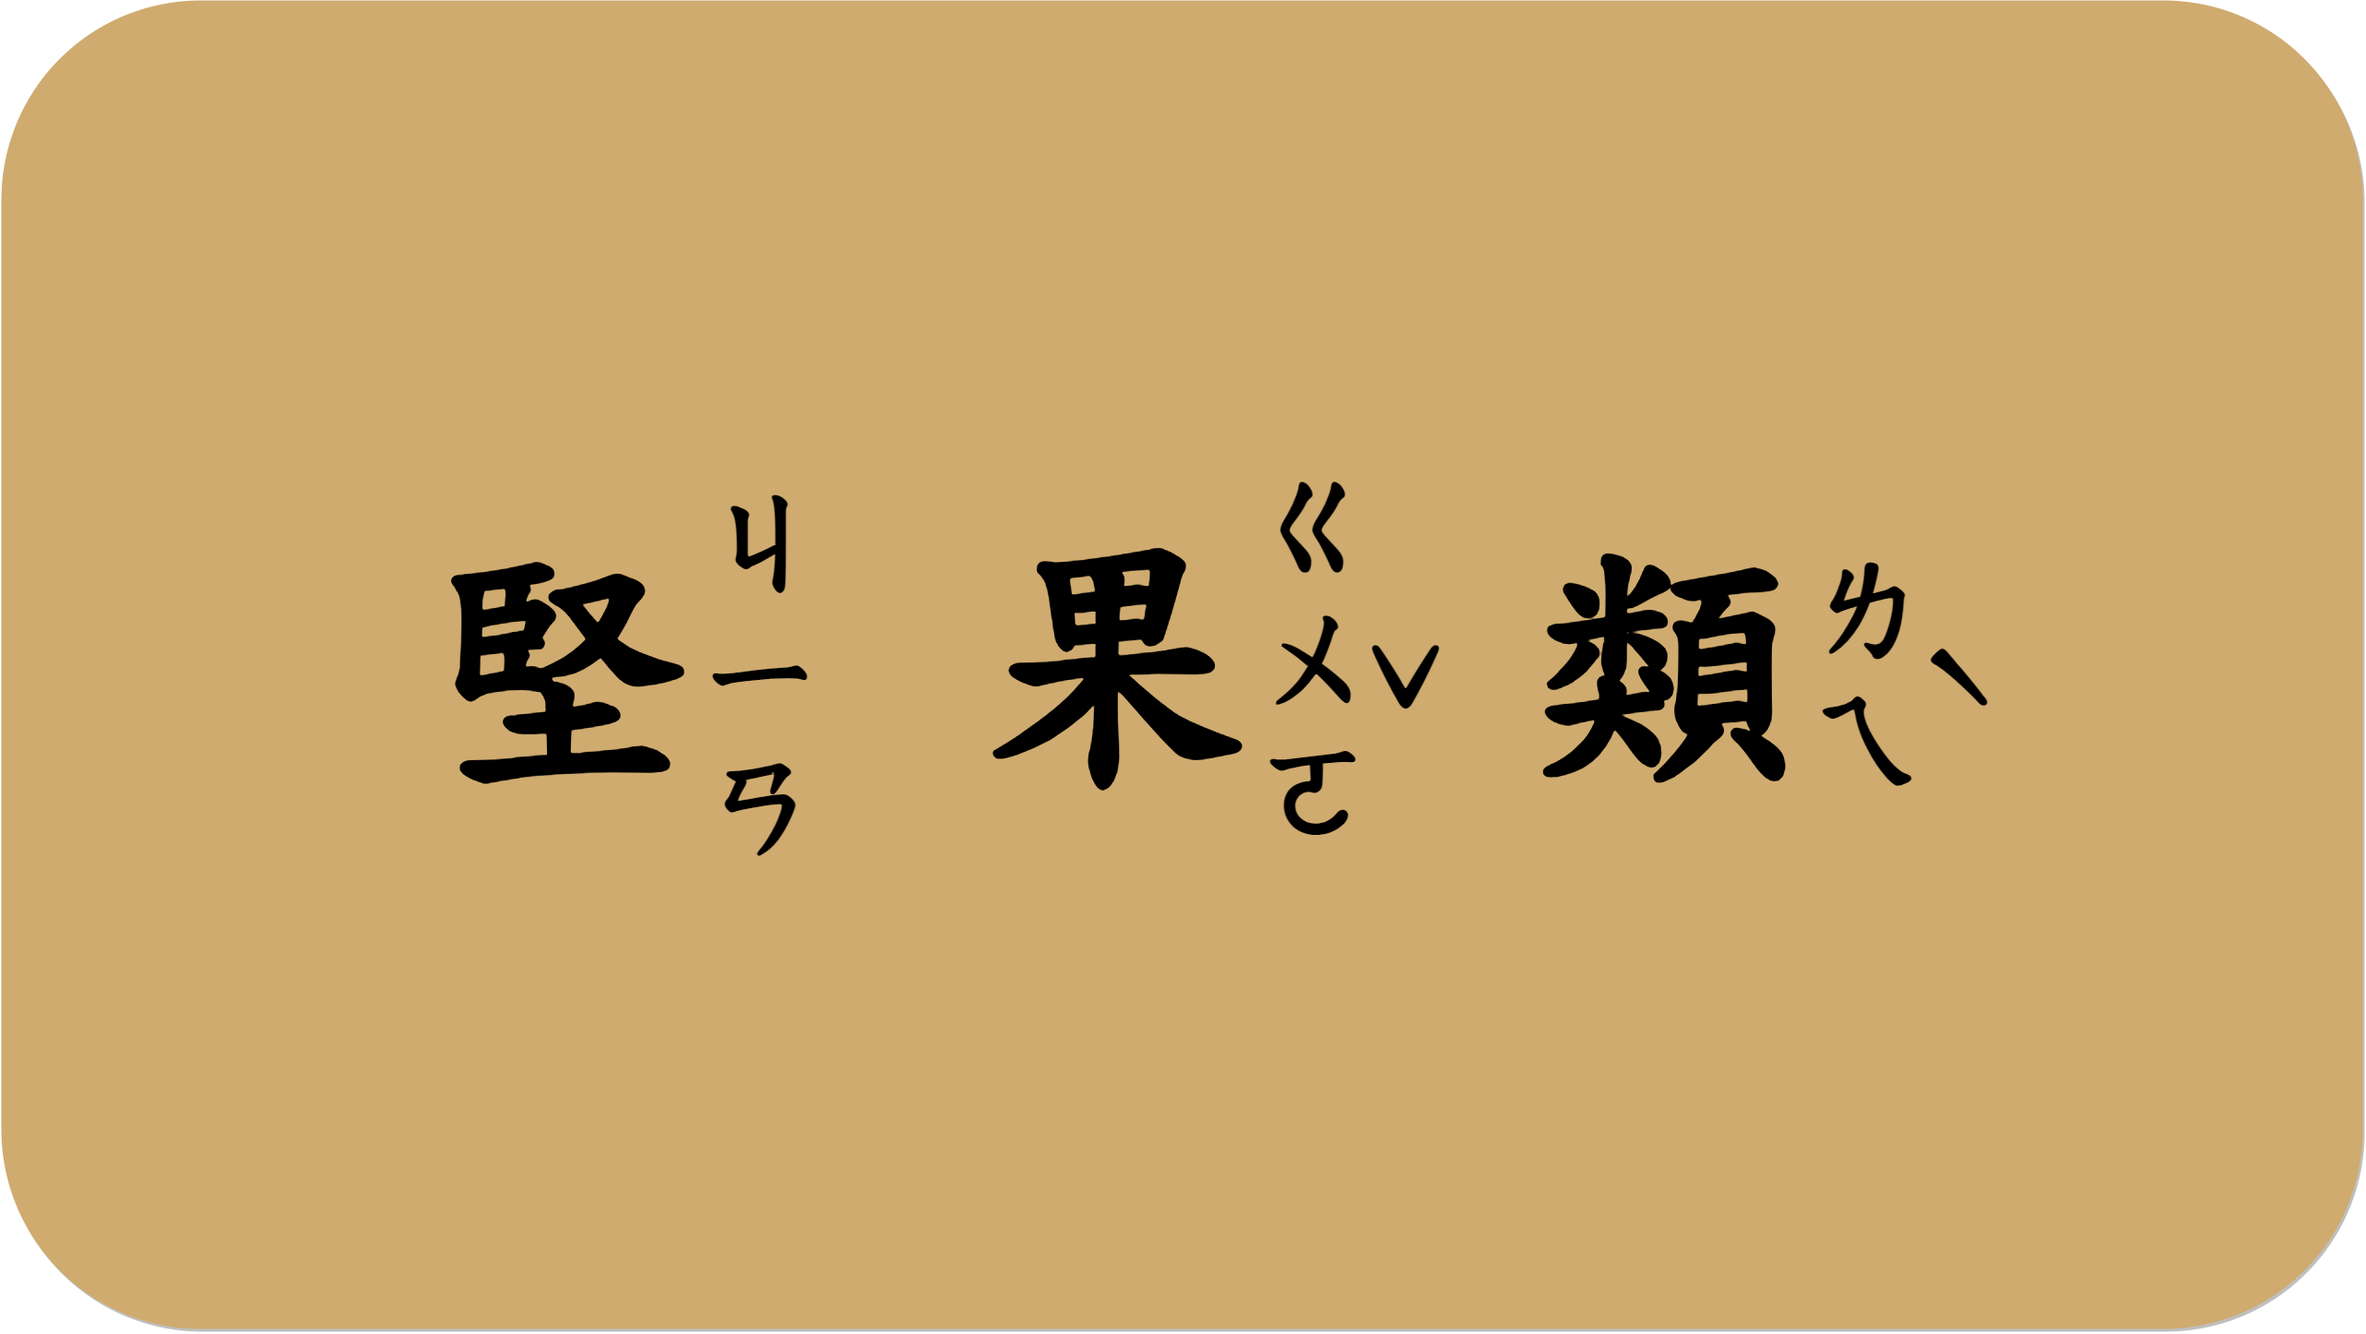
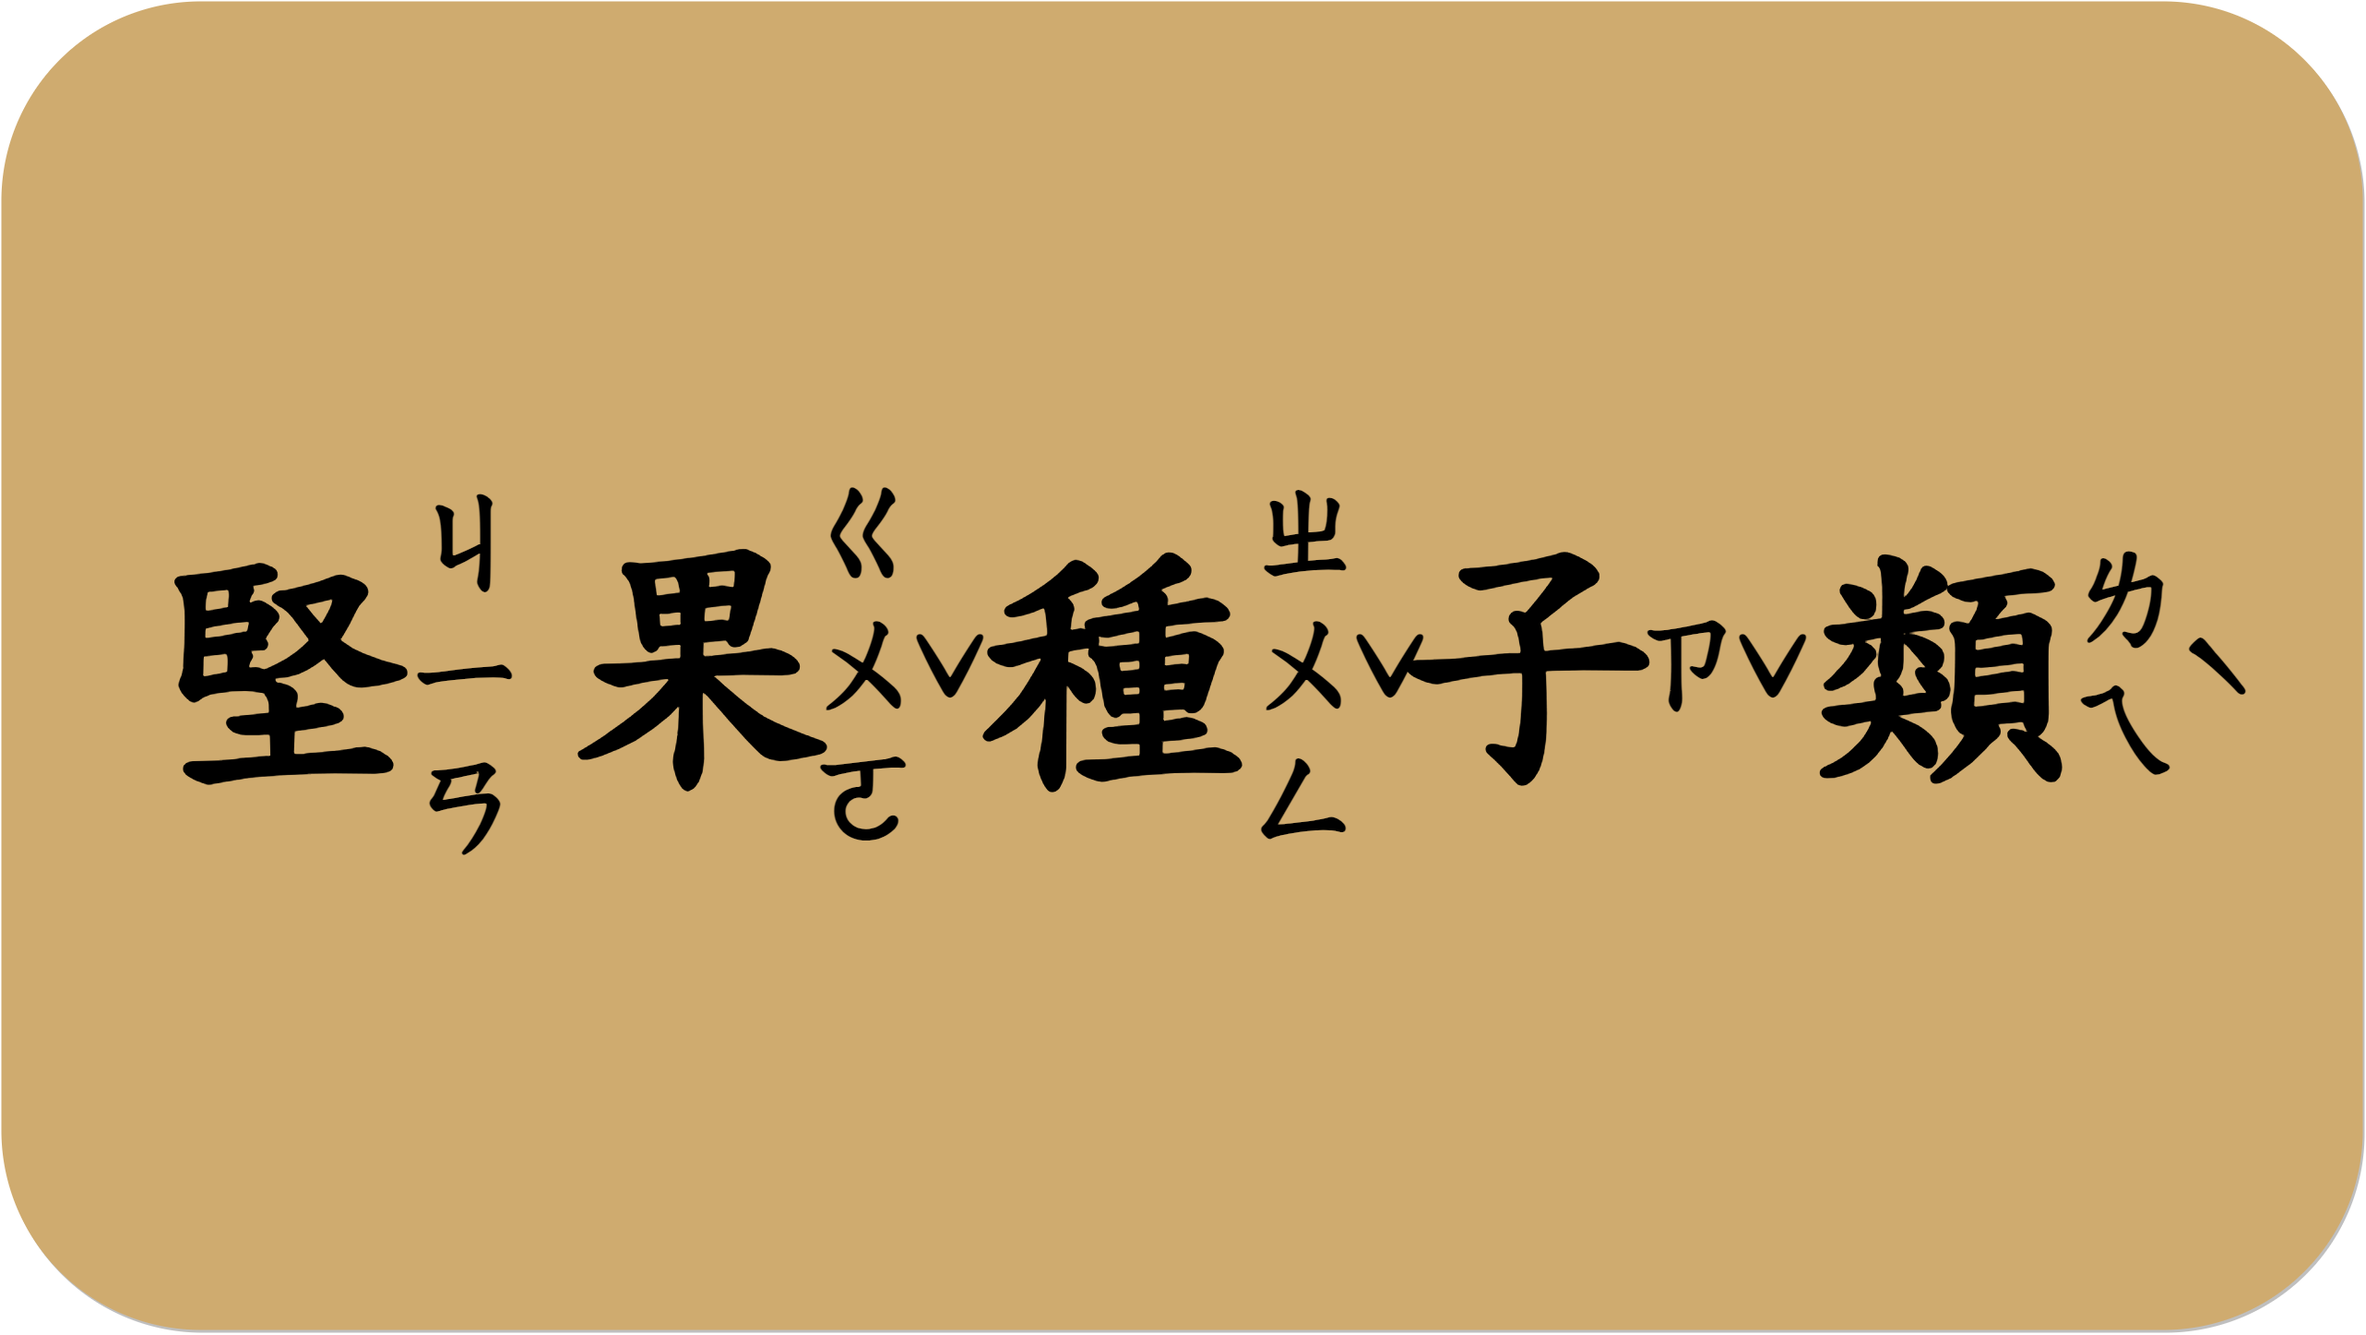
20240423 update

diff --git a/E-Plate/index.html b/E-Plate/index.html
@@ -1,4 +1,6 @@
-<html><head>
+<html>
+
+<head>
   <!-- 設定網頁之標題 -->
   <title>
     我的E餐盤
@@ -40,56 +42,40 @@
     <div id="gameContainer" class="container mt-2">
       <iframe id="game" class="d-none" src="" frameborder="1" style="width: 100%;height: 84%;"></iframe>
     </div>
+    
 
     <!-- 操作介面之內容 -->
     <div id="ctrl" class="container text-center">
+      <h4 id="now" class="bg-primary text-white rounded fw-bold text-center mb-3 py-2 d-none" style="height: 50px;"></h4>
       <div class="row row-cols-1 row-cols-sm-2 row-cols-lg-3 g-2">
         
         <div class="col">
           <button id="btn1" class="btn btn-lg fw-bold w-100 h-100 py-5">
-            <div class="btn-content">
-            1.<span class="">食<ruby class=""><rt id="pinyin">ㄕ</rt><rt id="tone">ˊ</rt></ruby></span><span class="">物<ruby class=""><rt id="pinyin">ㄨ</rt><rt id="tone">ˋ</rt></ruby></span><span class="">分<ruby class=""><rt id="pinyin">ㄈㄣ</rt></ruby></span><span class="">類<ruby class=""><rt id="pinyin">ㄌㄟ</rt><rt id="tone">ˋ</rt></ruby></span>
-            </div>
           </button>
         </div>
       
         <div class="col">
           <button id="btn2" class="btn btn-lg fw-bold w-100 h-100 py-5">
-            <div class="btn-content">
-            2.<span class="">食<ruby class=""><rt id="pinyin">ㄕ</rt><rt id="tone">ˊ</rt></ruby></span><span class="">物<ruby class=""><rt id="pinyin">ㄨ</rt><rt id="tone">ˋ</rt></ruby></span><span class="">的<ruby class=""><rt id="pinyin">˙ㄉㄜ</rt></ruby></span><span class="">家<ruby class=""><rt id="pinyin">ㄐㄧㄚ</rt></ruby></span>
-            </div>
           </button>
         </div>
       
         <div class="col">
           <button id="btn3" class="btn btn-lg fw-bold w-100 h-100 py-5">
-            <div class="btn-content">
-            3.<span class="">念<ruby class=""><rt id="pinyin">ㄋㄧㄢ</rt><rt id="tone">ˋ</rt></ruby></span><span class="">謠<ruby class=""><rt id="pinyin">ㄧㄠ</rt><rt id="tone">ˊ</rt></ruby></span><span class="">配<ruby class=""><rt id="pinyin">ㄆㄟ</rt><rt id="tone">ˋ</rt></ruby></span><span class="">對<ruby class=""><rt id="pinyin">ㄉㄨㄟ</rt><rt id="tone">ˋ</rt></ruby></span>
-            </div>
           </button>
         </div>
       
         <div class="col">
           <button id="btn4" class="btn btn-lg fw-bold w-100 h-100 py-5">
-            <div class="btn-content">
-            4.<span class="">彩<ruby class=""><rt id="pinyin">ㄘㄞ</rt><rt id="tone">ˇ</rt></ruby></span><span class="">虹<ruby class=""><rt id="pinyin">ㄏㄨㄥ</rt><rt id="tone">ˊ</rt></ruby></span><span class="">蔬<ruby class=""><rt id="pinyin">ㄕㄨ</rt></ruby></span><span class="">果<ruby class=""><rt id="pinyin">ㄍㄨㄛ</rt><rt id="tone">ˇ</rt></ruby></span><span class="">的<ruby class=""><rt id="pinyin">˙ㄉㄜ</rt></ruby></span><span class="">家<ruby class=""><rt id="pinyin">ㄐㄧㄚ</rt></ruby></span>
-            </div>
           </button>
         </div>
       
         <div class="col">
           <button id="btn5" class="btn btn-lg fw-bold w-100 h-100 py-5">
-            <div class="btn-content">
-            5.<span class="">蔬<ruby class=""><rt id="pinyin">ㄕㄨ</rt></ruby></span><span class="">果<ruby class=""><rt id="pinyin">ㄍㄨㄛ</rt><rt id="tone">ˇ</rt></ruby></span><span class="">配<ruby class=""><rt id="pinyin">ㄆㄟ</rt><rt id="tone">ˋ</rt></ruby></span><span class="">對<ruby class=""><rt id="pinyin">ㄉㄨㄟ</rt><rt id="tone">ˋ</rt></ruby></span><span class="">身<ruby class=""><rt id="pinyin">ㄕㄣ</rt></ruby></span><span class="">體<ruby class=""><rt id="pinyin">ㄊㄧ</rt><rt id="tone">ˇ</rt></ruby></span>
-            </div>
           </button>
         </div>
       
         <div class="col">
           <button id="btn6" class="btn btn-lg fw-bold w-100 h-100 py-5">
-            <div class="btn-content">
-            6.<span class="">我<ruby class=""><rt id="pinyin">ㄨㄛ</rt><rt id="tone">ˇ</rt></ruby></span><span class="">的<ruby class=""><rt id="pinyin">˙ㄉㄜ</rt></ruby></span><span class="">餐<ruby class=""><rt id="pinyin">ㄘㄢ</rt></ruby></span><span class="">盤<ruby class=""><rt id="pinyin">ㄆㄢ</rt><rt id="tone">ˊ</rt></ruby></span>
-            </div>
           </button>
         </div>
         
@@ -99,13 +85,29 @@
   </div>
 
 
-<script>  
+<script>
+  const gameName = [
+    '1.<span class="">食<ruby class=""><rt id="pinyin">ㄕ</rt><rt id="tone">ˊ</rt></ruby></span><span class="">物<ruby class=""><rt id="pinyin">ㄨ</rt><rt id="tone">ˋ</rt></ruby></span><span class="">分<ruby class=""><rt id="pinyin">ㄈㄣ</rt></ruby></span><span class="">類<ruby class=""><rt id="pinyin">ㄌㄟ</rt><rt id="tone">ˋ</rt></ruby></span>',
+    '2.<span class="">食<ruby class=""><rt id="pinyin">ㄕ</rt><rt id="tone">ˊ</rt></ruby></span><span class="">物<ruby class=""><rt id="pinyin">ㄨ</rt><rt id="tone">ˋ</rt></ruby></span><span class="">的<ruby class=""><rt id="pinyin">˙ㄉㄜ</rt></ruby></span><span class="">家<ruby class=""><rt id="pinyin">ㄐㄧㄚ</rt></ruby></span>',
+    '3.<span class="">念<ruby class=""><rt id="pinyin">ㄋㄧㄢ</rt><rt id="tone">ˋ</rt></ruby></span><span class="">謠<ruby class=""><rt id="pinyin">ㄧㄠ</rt><rt id="tone">ˊ</rt></ruby></span><span class="">配<ruby class=""><rt id="pinyin">ㄆㄟ</rt><rt id="tone">ˋ</rt></ruby></span><span class="">對<ruby class=""><rt id="pinyin">ㄉㄨㄟ</rt><rt id="tone">ˋ</rt></ruby></span>',
+    '4.<span class="">彩<ruby class=""><rt id="pinyin">ㄘㄞ</rt><rt id="tone">ˇ</rt></ruby></span><span class="">虹<ruby class=""><rt id="pinyin">ㄏㄨㄥ</rt><rt id="tone">ˊ</rt></ruby></span><span class="">蔬<ruby class=""><rt id="pinyin">ㄕㄨ</rt></ruby></span><span class="">果<ruby class=""><rt id="pinyin">ㄍㄨㄛ</rt><rt id="tone">ˇ</rt></ruby></span><span class="">的<ruby class=""><rt id="pinyin">˙ㄉㄜ</rt></ruby></span><span class="">家<ruby class=""><rt id="pinyin">ㄐㄧㄚ</rt></ruby></span>',
+    '5.<span class="">蔬<ruby class=""><rt id="pinyin">ㄕㄨ</rt></ruby></span><span class="">果<ruby class=""><rt id="pinyin">ㄍㄨㄛ</rt><rt id="tone">ˇ</rt></ruby></span><span class="">配<ruby class=""><rt id="pinyin">ㄆㄟ</rt><rt id="tone">ˋ</rt></ruby></span><span class="">對<ruby class=""><rt id="pinyin">ㄉㄨㄟ</rt><rt id="tone">ˋ</rt></ruby></span><span class="">身<ruby class=""><rt id="pinyin">ㄕㄣ</rt></ruby></span><span class="">體<ruby class=""><rt id="pinyin">ㄊㄧ</rt><rt id="tone">ˇ</rt></ruby></span>',
+    '6.<span class="">我<ruby class=""><rt id="pinyin">ㄨㄛ</rt><rt id="tone">ˇ</rt></ruby></span><span class="">的<ruby class=""><rt id="pinyin">˙ㄉㄜ</rt></ruby></span><span class="">餐<ruby class=""><rt id="pinyin">ㄘㄢ</rt></ruby></span><span class="">盤<ruby class=""><rt id="pinyin">ㄆㄢ</rt><rt id="tone">ˊ</rt></ruby></span>',
+  ]
+  const buttons = document.querySelectorAll('.btn');
+  // 將遊戲名稱分配給每個按鈕
+  buttons.forEach((button, index) => {
+    button.innerHTML = gameName[index]; // 使用 innerHTML 將 HTML 字串插入按鈕內容
+    // 在這裡可以為按鈕添加其他功能或事件處理程序
+  });
   $(function () {
     // 監聽按鈕點擊事件
     $('[id^=btn]').click(function () {
       var gameId = $(this).attr('id').replace('btn', ''); // 提取按鈕的ID中的遊戲編號
       $('#game').attr('src', '/website/E-Plate/views/game' + gameId + '.html'); // 設置iframe的src屬性為相應的遊戲地址
       $('#game').removeClass('d-none'); // 移除 d-none 類以顯示 iframe
+      $('#now').removeClass('d-none');
+      $('#now').html(gameName[gameId-1]);
     });
   })
   // 防止重複嵌套
@@ -116,6 +118,7 @@
       // 清除先前的內容
       this.contentWindow.document.body.innerHTML = '';
       document.getElementById('game').classList.add('d-none');
+      $('#now').addClass('d-none');
     }
   });
 </script>

diff --git a/E-Plate/public/javascripts/game2.js b/E-Plate/public/javascripts/game2.js
@@ -4,107 +4,34 @@ const gameStart = {
   key: 'gameStart',
   preload: function () {
     GeneralPreload(this);
-    this.load.image('nut', '../public/images/ui/types/nutText.png');
-    this.load.image('milk', '../public/images/ui/types/milkText.png');
-    this.load.image('meat', '../public/images/ui/types/meatText.png');
-    this.load.image('vegetable', '../public/images/ui/types/vegetableText.png');
-    this.load.image('fruit', '../public/images/ui/types/fruitText.png');
-    this.load.image('grain', '../public/images/ui/types/grainText.png');
+    this.load.image('plate', '../public/images/ui/plate.png');
+    this.load.image('CFAB6F', '../public/images/ui/colors/CFAB6F.png');
   },
   create: function () {
 
     // /************************************************ 物件設置部分 ************************************************/
-    const towerWidth = 0.7 * w; // 金字塔寬
-    const towerHeight = 0.98 * h;  // 金字塔高
     const foodlist = getRandomFoods(numOfFood);
     const foodArr = [];
-
-    // 食物分類金字塔物件
-    const foodTower = this.add.triangle(cx / 1.4, cy, 0, towerHeight, 0.5 * towerWidth, 0, towerWidth, towerHeight, 0xffffff).setInteractive();
-    // 劃分區域
-    const regions = [
-      {
-        name: 'nut',
-        bounds: new Phaser.Geom.Polygon([
-          foodTower.x - foodTower.width / 6.65, foodTower.y - foodTower.height / 5,
-          foodTower.x + foodTower.width / 6.65, foodTower.y - foodTower.height / 5,
-          foodTower.x, foodTower.y - foodTower.height / 2,]),
-        color: 0xCFAB6F,
-        text: '堅果類',
-        textSeat: [foodTower.x, foodTower.y - foodTower.height / 5],
-      },
-      {
-        name: 'milk',
-        bounds: new Phaser.Geom.Polygon([
-          foodTower.x - foodTower.width / 3.75, foodTower.y + foodTower.height / 30,
-          foodTower.x - foodTower.width / 300, foodTower.y + foodTower.height / 30,
-          foodTower.x - foodTower.width / 300, foodTower.y - foodTower.height / 5.25,
-          foodTower.x - foodTower.width / 6.5, foodTower.y - foodTower.height / 5.25,]),
-        color: 0x83CDEA,
-        text: '乳品類',
-        textSeat: [((foodTower.x - foodTower.width / 3.75) + (foodTower.x - foodTower.width / 300)) / 2, foodTower.y + foodTower.height / 30],
-      },
-      {
-        name: 'meat',
-        bounds: new Phaser.Geom.Polygon([
-          foodTower.x + foodTower.width / 300, foodTower.y + foodTower.height / 30,
-          foodTower.x + foodTower.width / 3.75, foodTower.y + foodTower.height / 30,
-          foodTower.x + foodTower.width / 6.5, foodTower.y - foodTower.height / 5.25,
-          foodTower.x + foodTower.width / 300, foodTower.y - foodTower.height / 5.25]),
-        color: 0xee8800,
-        text: '豆魚蛋肉類',
-        textSeat: [((foodTower.x + foodTower.width / 3.75) + (foodTower.x + foodTower.width / 300)) / 2, foodTower.y + foodTower.height / 30],
-      },
-      {
-        name: 'vegetable',
-        bounds: new Phaser.Geom.Polygon([
-          foodTower.x - foodTower.width / 2.6, foodTower.y + foodTower.height / 3.7,
-          foodTower.x - foodTower.width / 300, foodTower.y + foodTower.height / 3.7,
-          foodTower.x - foodTower.width / 300, foodTower.y + foodTower.height / 22.5,
-          foodTower.x - foodTower.width / 3.7, foodTower.y + foodTower.height / 22.5,]),
-        color: 0xDB5878,
-        text: '蔬果類',
-        textSeat: [((foodTower.x - foodTower.width / 2.6) + (foodTower.x - foodTower.width / 300)) / 2, foodTower.y + foodTower.height / 3.7],
-      },
-      {
-        name: 'fruit',
-        bounds: new Phaser.Geom.Polygon([
-          foodTower.x + foodTower.width / 300, foodTower.y + foodTower.height / 3.7,
-          foodTower.x + foodTower.width / 2.6, foodTower.y + foodTower.height / 3.7,
-          foodTower.x + foodTower.width / 3.7, foodTower.y + foodTower.height / 22.5,
-          foodTower.x + foodTower.width / 300, foodTower.y + foodTower.height / 22.5,]),
-        color: 0x87BA43,
-        text: '水果類',
-        textSeat: [((foodTower.x + foodTower.width / 2.6) + (foodTower.x + foodTower.width / 300)) / 2, foodTower.y + foodTower.height / 3.7],
-      },
-      {
-        name: 'grain',
-        bounds: new Phaser.Geom.Polygon([
-          foodTower.x - foodTower.width / 2, foodTower.y + foodTower.height / 2,
-          foodTower.x + foodTower.width / 2, foodTower.y + foodTower.height / 2,
-          foodTower.x + foodTower.width / 2.55, foodTower.y + foodTower.height / 3.55,
-          foodTower.x - foodTower.width / 2.55, foodTower.y + foodTower.height / 3.55,]),
-        color: 0xE56B28,
-        text: '全榖雜糧類',
-        textSeat: [foodTower.x, foodTower.y + foodTower.height / 2],
-      }
+    
+    // 食物分類區域
+    const pw = w / 1.4;
+    const ph = h / 1.1;
+    const plate = this.add.image(cx / 1.35, cy * 1.1, 'plate').setDisplaySize(pw, ph);
+    const Regions = [
+      { name: 'nut', text: '堅果類', bounds: this.add.image(1.01 * plate.x, plate.y - ph / 2.5, 'CFAB6F').setDisplaySize(0.33 * pw, 0.24 * ph).setDepth(-1) },
+      { name: 'milk', text: '乳品類', bounds: this.add.rectangle(plate.x - pw / 2.8, plate.y - ph / 3.5, 0.25 * pw, 0.3 * ph) },
+      { name: 'meat', text: '豆魚蛋肉類', bounds: this.add.rectangle(plate.x + pw / 5.5, plate.y - ph / 11.5, 0.33 * pw, 0.25 * ph) },
+      { name: 'fruit', text: '水果類', bounds: this.add.rectangle(plate.x - pw / 3.6, plate.y + ph / 6.5, 0.16 * pw, 0.57 * ph) },
+      { name: 'grain', text: '全榖雜糧類', bounds: this.add.rectangle(plate.x + pw / 5.5, plate.y + ph / 4.1, 0.33 * pw, 0.38 * ph) },
+      { name: 'vegetable', text: '蔬果類', bounds: this.add.rectangle(plate.x - pw / 11, plate.y + ph / 9, 0.19 * pw, 0.65 * ph) },
     ];
-    regions.forEach(region => {
-      // 繪製邊界並填充顏色
-      this.add.graphics().lineStyle(0.003 * w, 0x0).strokePoints(region.bounds.points, true).fillStyle(region.color).fillPath();
-      // 添加文字
-      // this.add.text(region.textSeat[0], region.textSeat[1] - classFontSize / 2, region.text, { font: `${classFontSize}px 標楷體`, fill: '#000000' }).setOrigin(0.5);
-      this.add.image(region.textSeat[0], region.textSeat[1] - classFontSize /2, region.name).setDisplaySize(0.18*w, classFontSize)
-      // 定義點擊互動事件，作為驗證
-      // foodTower.on('pointerdown', (pointer) => { if (Phaser.Geom.Polygon.Contains(region.bounds, pointer.x, pointer.y)) console.log(`${region.text}`) })
-    });
 
     // 食物區域
-    foodArea(this, foodArr, foodlist, 0.85 * w, cy, 0.27 * w, towerHeight, 0, 0);
+    foodArea(this, foodArr, foodlist, 0.85 * w, cy, 0.27 * w, 0.95 * h, 0, 0);
 
     // /************************************************ 互動事件部分 ************************************************/
 
-    dragEvent(this, 'game2', regions, userAnswer); // 添加拖動事件
+    dragEvent(this, 'game6', Regions, userAnswer); // 添加拖動事件
   },
   update: function () {
     // 遊戲狀態更新
